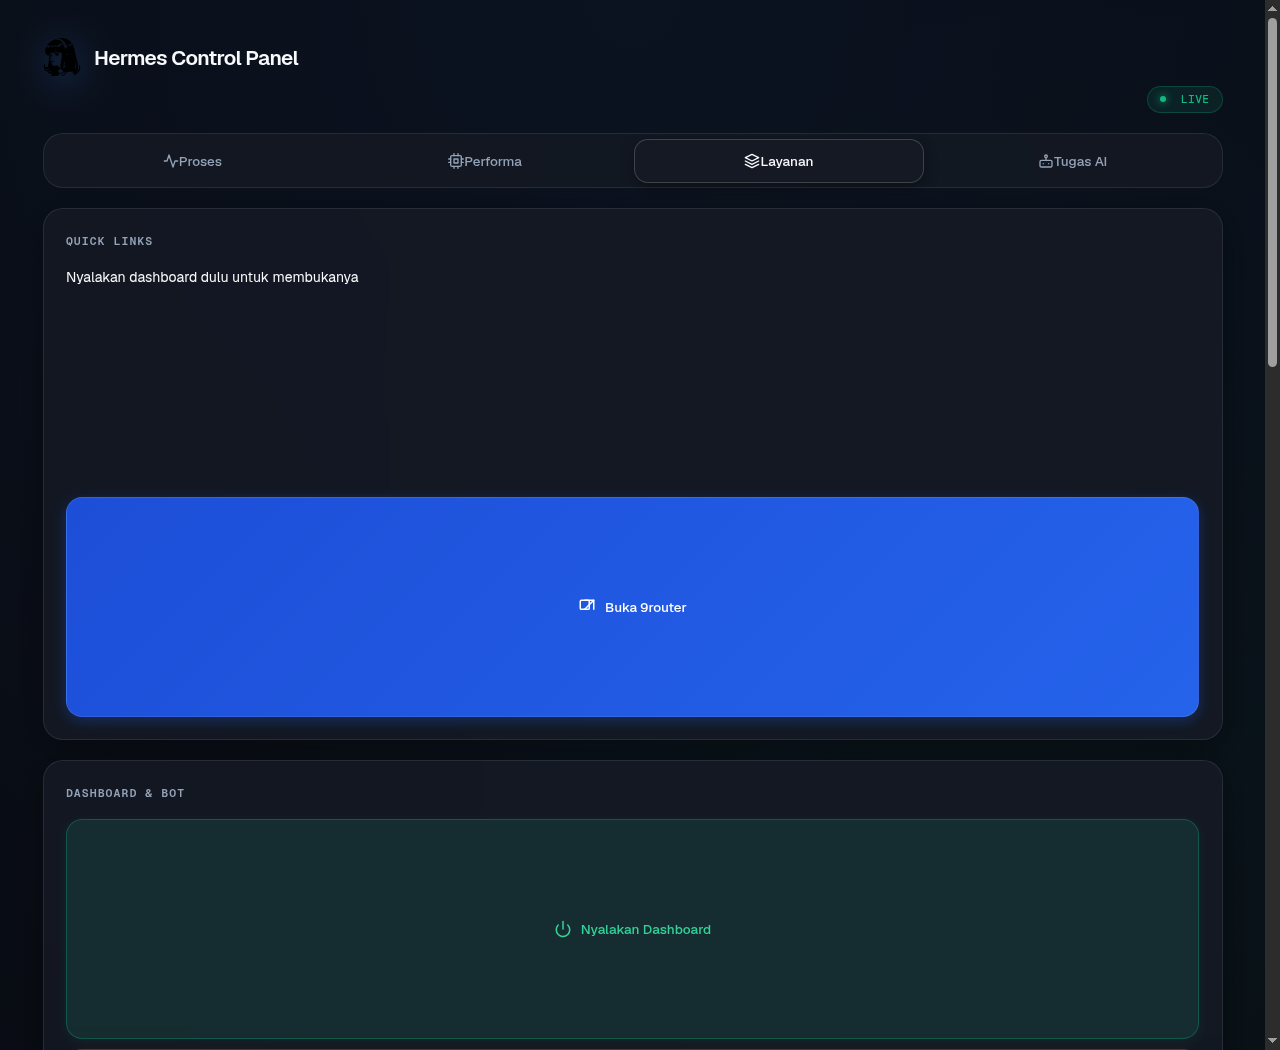
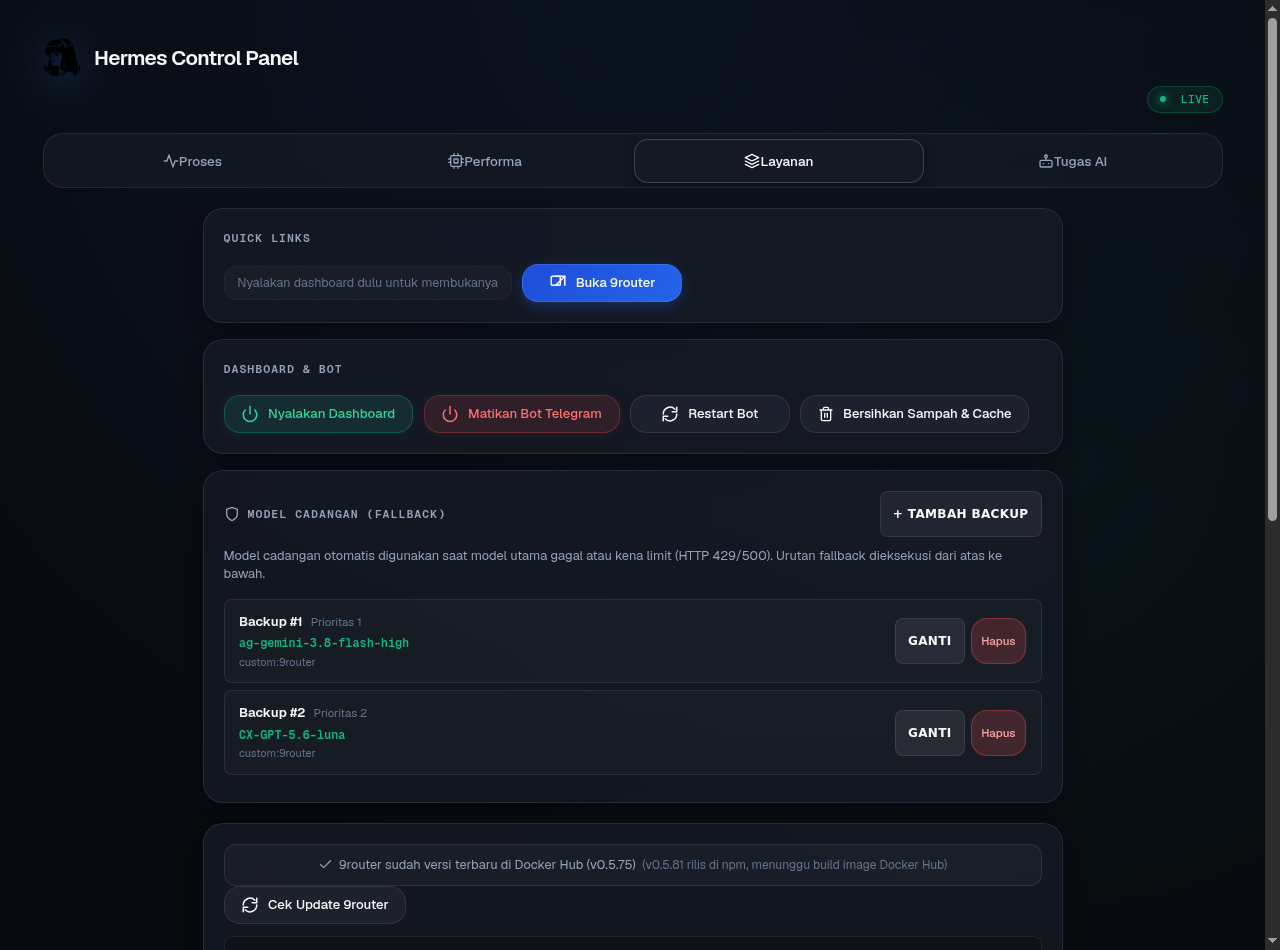
fix(ui): make service buttons compact and desktop-proportional

diff --git a/dashboard-toggle-server.py b/dashboard-toggle-server.py
@@ -256,35 +256,6 @@ border:1px solid var(--border-hover);box-shadow:0 4px 14px rgba(0,0,0,0.35)}}
 .tab-panel{{display:none;width:100%;max-width:540px}}
 .tab-panel.active{{display:block}}
 
-@media (min-width: 1024px) {{
-  body {{ padding: 2.4rem 2.5rem 3rem; }}
-  .header {{ width: min(100%, 1180px); align-items:flex-start; text-align:left; margin-bottom:1.25rem; }}
-  .header-brand {{ width:100%; }}
-  .live-badge {{ margin-left:auto; }}
-  .tabs {{ display:flex; max-width:1180px; margin:0 auto 1.25rem; }}
-  .content-wrapper {{
-    display:block;
-    width:100%;
-    max-width:1180px;
-    margin:0 auto;
-  }}
-  .tab-panel {{
-    display:none !important;
-    max-width:100%;
-  }}
-  .tab-panel.active {{ display:block !important; }}
-  .card, .perf-tile {{ padding:1.25rem; }}
-  .card+.card {{ margin-top:1rem; }}
-  .btn-row {{ flex-direction:row; flex-wrap:wrap; }}
-  .btn-row > * {{ flex:1 1 220px; }}
-  .models-grid {{ grid-template-columns:repeat(auto-fill, minmax(240px, 1fr)); }}
-}}
-
-@media (min-width: 1440px) {{
-  body {{ padding-left:4rem; padding-right:4rem; }}
-  .header, .tabs, .content-wrapper {{ max-width:1280px; }}
-}}
-
 /* Apple Control Center Bento Grid & Tiles */
 .card{{background:var(--surface);backdrop-filter:blur(20px);-webkit-backdrop-filter:blur(20px);
 border:1px solid var(--border);border-radius:var(--radius-xl);padding:1.4rem;width:100%;
@@ -407,6 +378,9 @@ white-space:pre-wrap;word-break:break-word;max-height:190px;overflow-y:auto;line
 .update-hint{{font-size:.8rem;color:var(--text-muted);text-align:center;
 background:rgba(255,255,255,0.03);border:1px solid var(--border);border-radius:var(--radius-md);
 padding:.65rem .85rem;display:flex;align-items:center;justify-content:center;gap:.4rem}}
+.hint-pill{{font-size:.78rem;color:var(--text-dim);padding:.42rem .8rem;border-radius:var(--radius-md);
+background:rgba(255,255,255,0.025);border:1px dashed var(--border-subtle);display:inline-flex;
+align-items:center;width:fit-content}}
 #pbar{{position:fixed;top:0;left:0;height:2px;width:0;background:var(--accent-light);z-index:100}}
 #spin{{display:inline-block;width:12px;height:12px;border:2px solid var(--border);
 border-top-color:var(--accent-light);border-radius:50%;vertical-align:-1px;
@@ -495,6 +469,68 @@ cursor:pointer;text-decoration:none;transition:all .15s ease}}
 .patch-notes-list{{margin:0;padding-left:1.15rem;color:var(--text-muted)}}
 .patch-notes-list li{{margin-bottom:.3rem;word-break:break-word}}
 .patch-notes-list li:last-child{{margin-bottom:0}}
+
+/* Responsive Desktop Overrides */
+@media (min-width: 768px) {{
+  .btn-row {{
+    display: flex !important;
+    flex-direction: row !important;
+    flex-wrap: wrap !important;
+    gap: .65rem !important;
+    align-items: center !important;
+    justify-content: flex-start !important;
+  }}
+  .btn-row > a.toggle,
+  .btn-row > a.open,
+  .btn-row > .btn {{
+    flex: 0 1 auto !important;
+    width: auto !important;
+    min-width: 160px !important;
+    max-width: 250px !important;
+    min-height: 38px !important;
+    padding: .48rem 1.05rem !important;
+    font-size: .82rem !important;
+  }}
+  #tab-control a.toggle,
+  #tab-control a.open,
+  #tab-control .card-warn a.toggle {{
+    width: auto !important;
+    min-width: 160px !important;
+    max-width: 260px !important;
+    min-height: 38px !important;
+    padding: .48rem 1.05rem !important;
+    font-size: .82rem !important;
+    display: inline-flex !important;
+  }}
+}}
+
+@media (min-width: 1024px) {{
+  body {{ padding: 2.4rem 2.5rem 3rem; }}
+  .header {{ width: min(100%, 1180px); align-items:flex-start; text-align:left; margin-bottom:1.25rem; }}
+  .header-brand {{ width:100%; }}
+  .live-badge {{ margin-left:auto; }}
+  .tabs {{ display:flex; max-width:1180px; margin:0 auto 1.25rem; }}
+  .content-wrapper {{
+    display:block;
+    width:100%;
+    max-width:1180px;
+    margin:0 auto;
+  }}
+  .tab-panel {{
+    display:none !important;
+    max-width:100%;
+  }}
+  .tab-panel.active {{ display:block !important; }}
+  #tab-control {{ max-width:860px; margin:0 auto; }}
+  .card, .perf-tile {{ padding:1.25rem; }}
+  .card+.card {{ margin-top:1rem; }}
+  .models-grid {{ grid-template-columns:repeat(auto-fill, minmax(240px, 1fr)); }}
+}}
+
+@media (min-width: 1440px) {{
+  body {{ padding-left:4rem; padding-right:4rem; }}
+  .header, .tabs, .content-wrapper {{ max-width:1280px; }}
+}}
 </style></head><body>
 <div id="pbar"></div>
 <div id="navloader"><div class="ring"></div><span id="nav-label">Memproses…</span></div>
